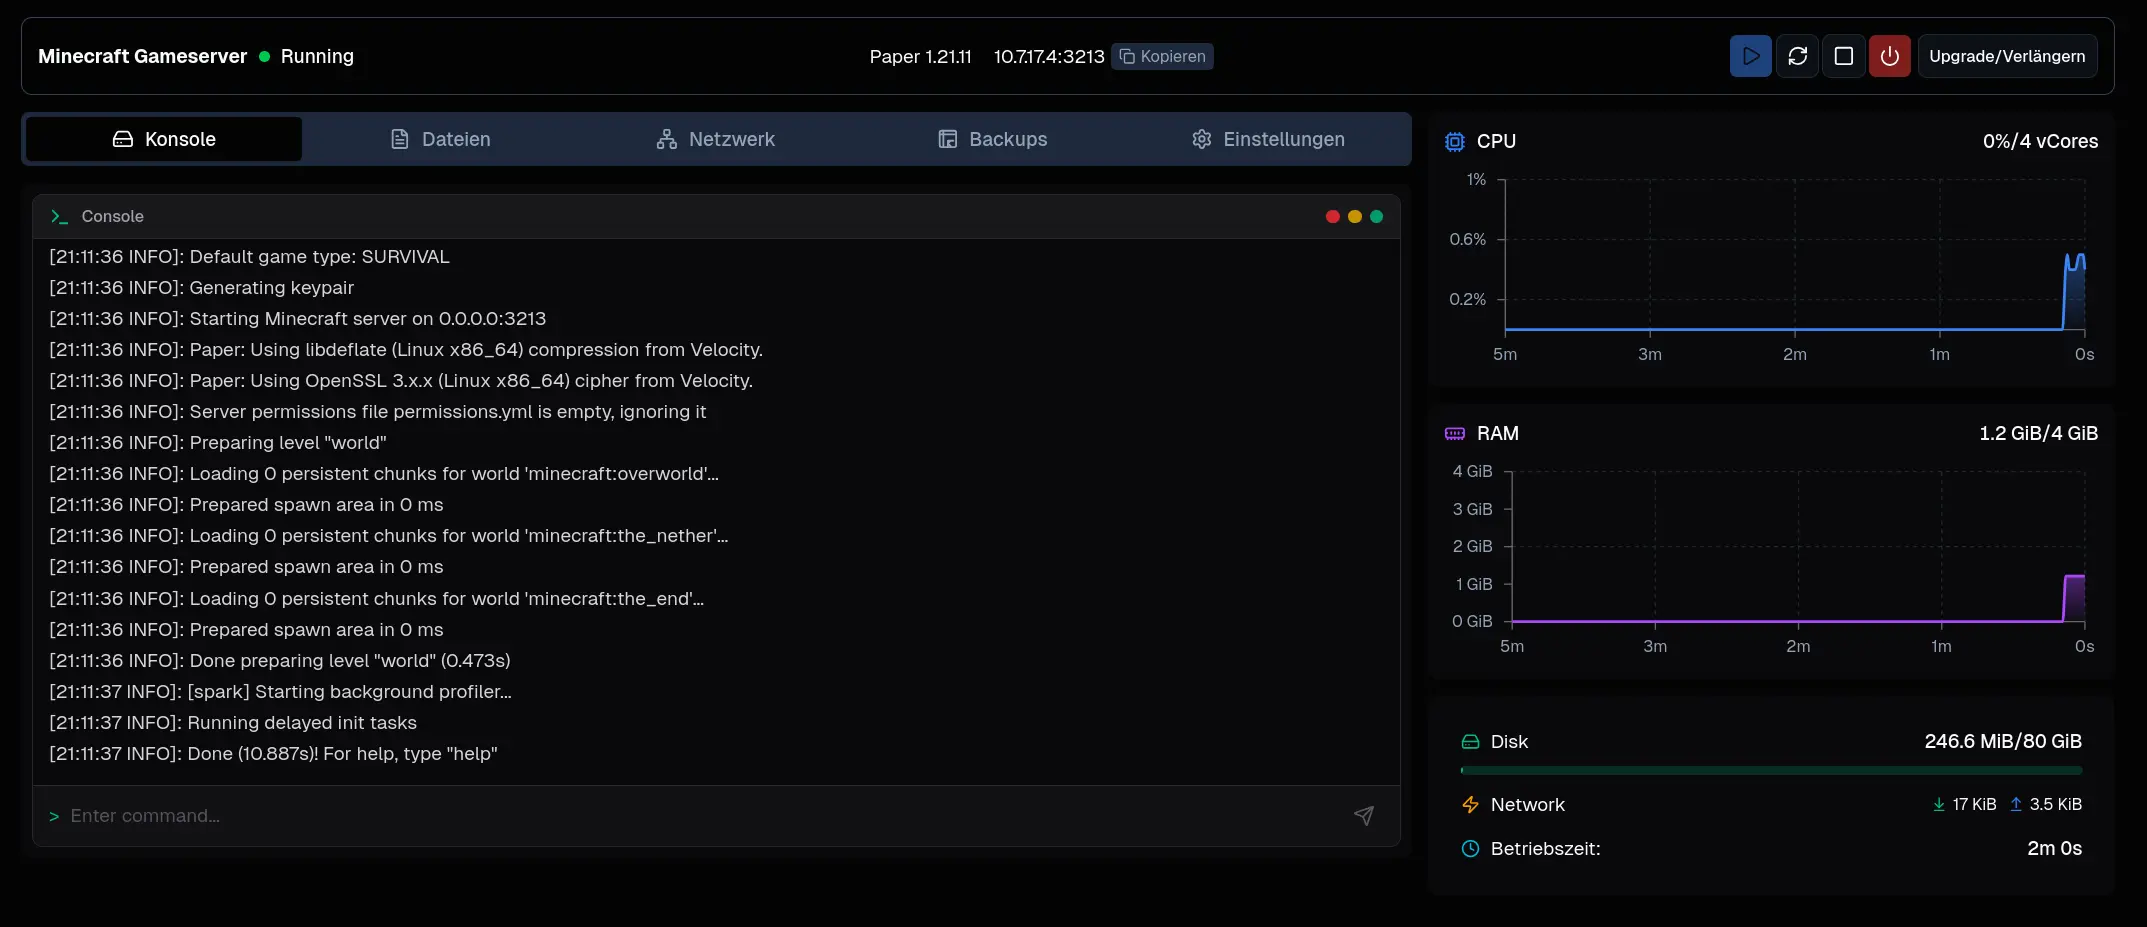
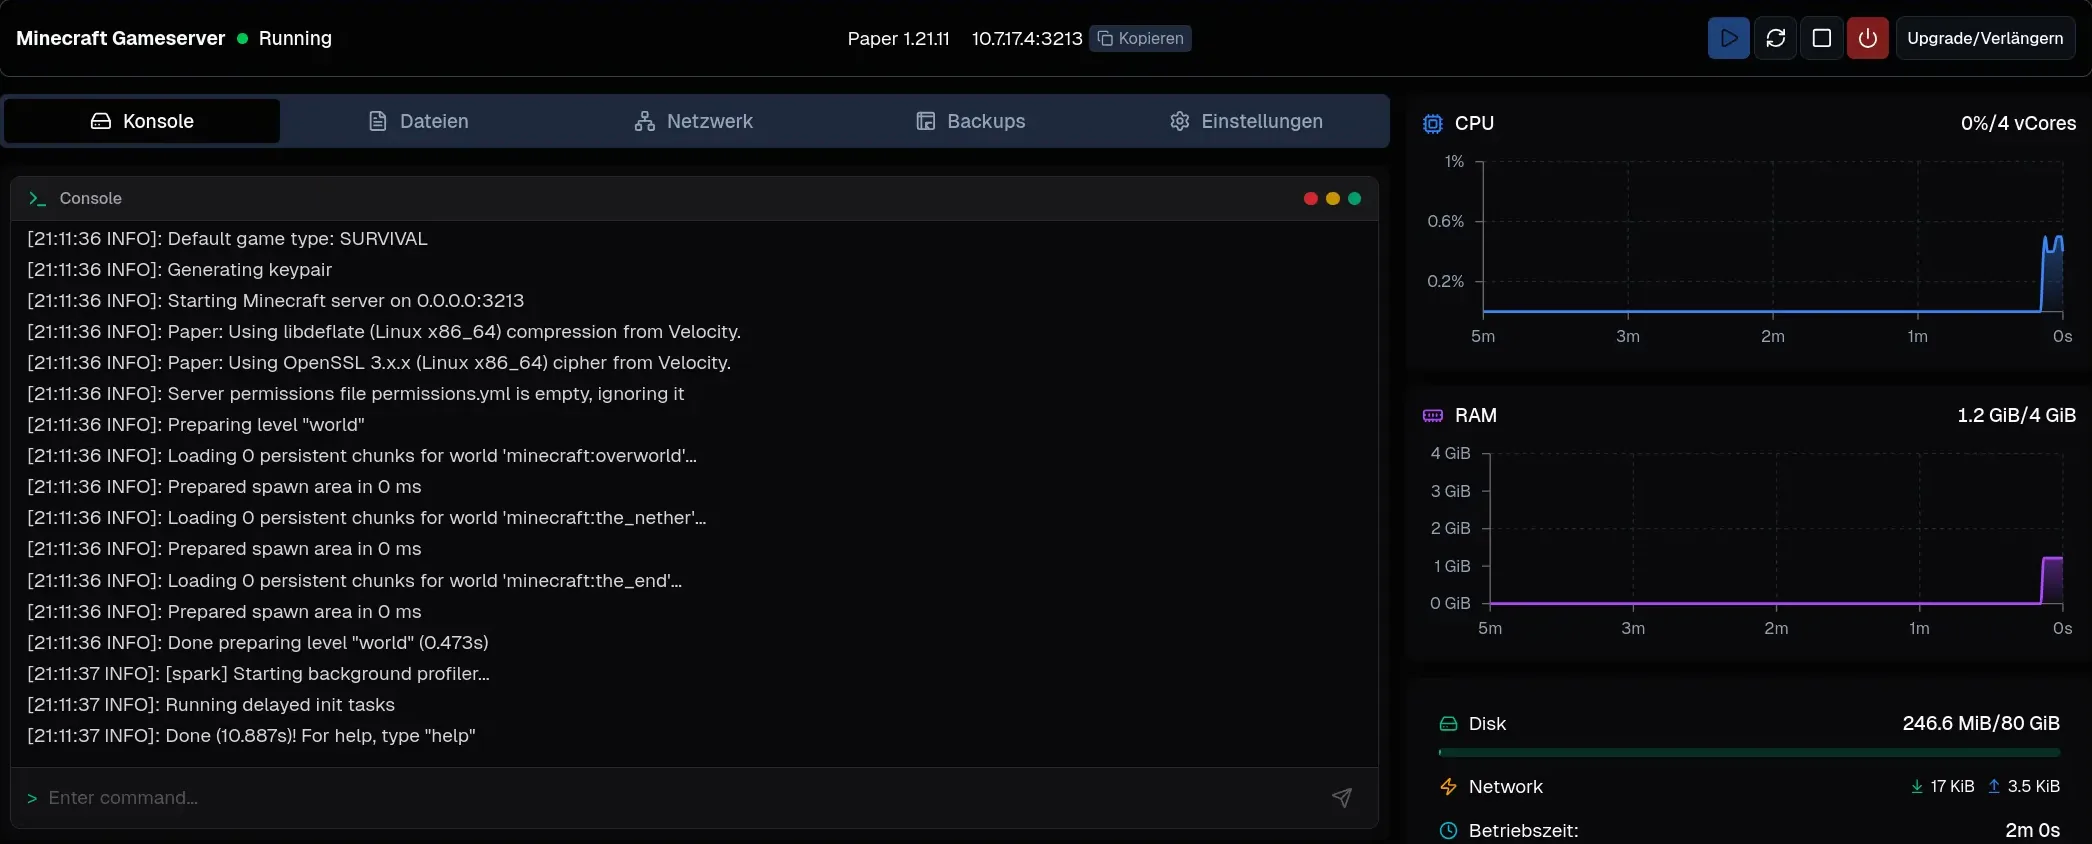
Crop baked-in margins from home panel screenshots
The light and dark panel.webp had background-colored padding (and in
light mode the screenshot's own outer border) baked into the image,
leaving a visible gap inside the rounded frame on the landing page.
Crop both to the panel and update the intrinsic size props.

diff --git a/app/[locale]/page.tsx b/app/[locale]/page.tsx
@@ -47,8 +47,8 @@ export default async function LandingPage({ params }: { params: Promise<{ locale
             title: t('panelTitle'),
             desc: t('panelDesc'),
             imageSrc: '/images/home/panel.webp',
-            width: 2074,
-            height: 1412,
+            width: 2062,
+            height: 1399,
             alt: t('panelImageAlt'),
         },
         {
@@ -184,8 +184,8 @@ export default async function LandingPage({ params }: { params: Promise<{ locale
                                 <ThemeImage
                                     src="/images/home/panel.webp"
                                     alt={t('panelImageAlt')}
-                                    width={2074}
-                                    height={1412}
+                                    width={2062}
+                                    height={1399}
                                     className="w-full h-auto"
                                     priority
                                 />
@@ -199,8 +199,8 @@ export default async function LandingPage({ params }: { params: Promise<{ locale
                                     <ThemeImage
                                         src="/images/home/panel.webp"
                                         alt={t('panelImageAlt')}
-                                        width={2074}
-                                        height={1412}
+                                        width={2062}
+                                        height={1399}
                                         className="w-full h-auto"
                                         priority
                                     />
